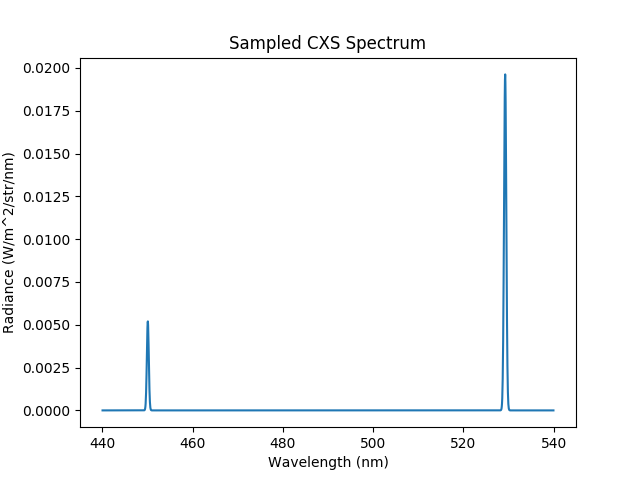
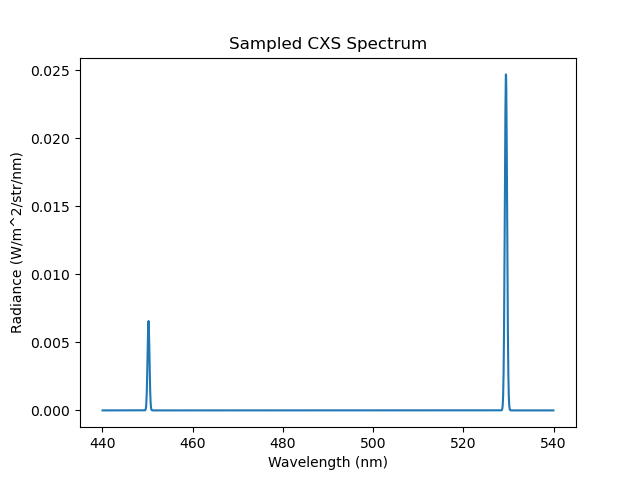
Update BES demo and beam-related pictures in the docs.

diff --git a/demos/emission_models/beam_emission_spectrum.py b/demos/emission_models/beam_emission_spectrum.py
@@ -69,9 +69,9 @@ beam_transform = translate(-0.5, 0.0, 0) * rotate_basis(Vector3D(1, 0, 0), Vecto
 beam_energy = 110000  # keV
 beam_current = 10  # A
 beam_sigma = 0.05
-beam_divergence = 0.5
+beam_divergence = 1.3  # degree
 beam_length = 3.0
-beam_temperature = 20
+beam_temperature = 1.0
 
 bes_full_model = BeamEmissionLine(Line(deuterium, 0, (3, 2)),
                                   sigma_to_pi=SIGMA_TO_PI, sigma1_to_sigma0=SIGMA1_TO_SIGMA0,
